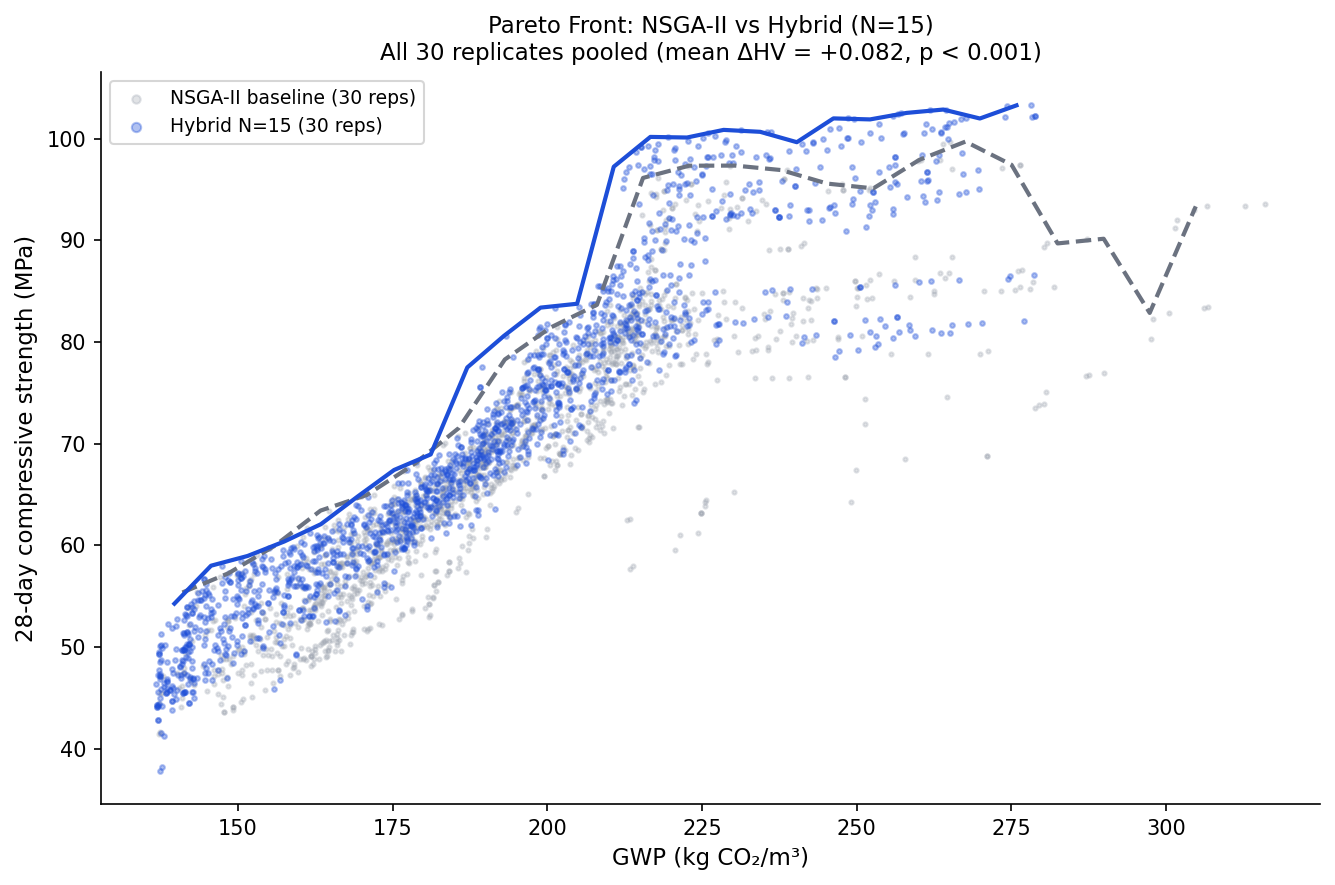
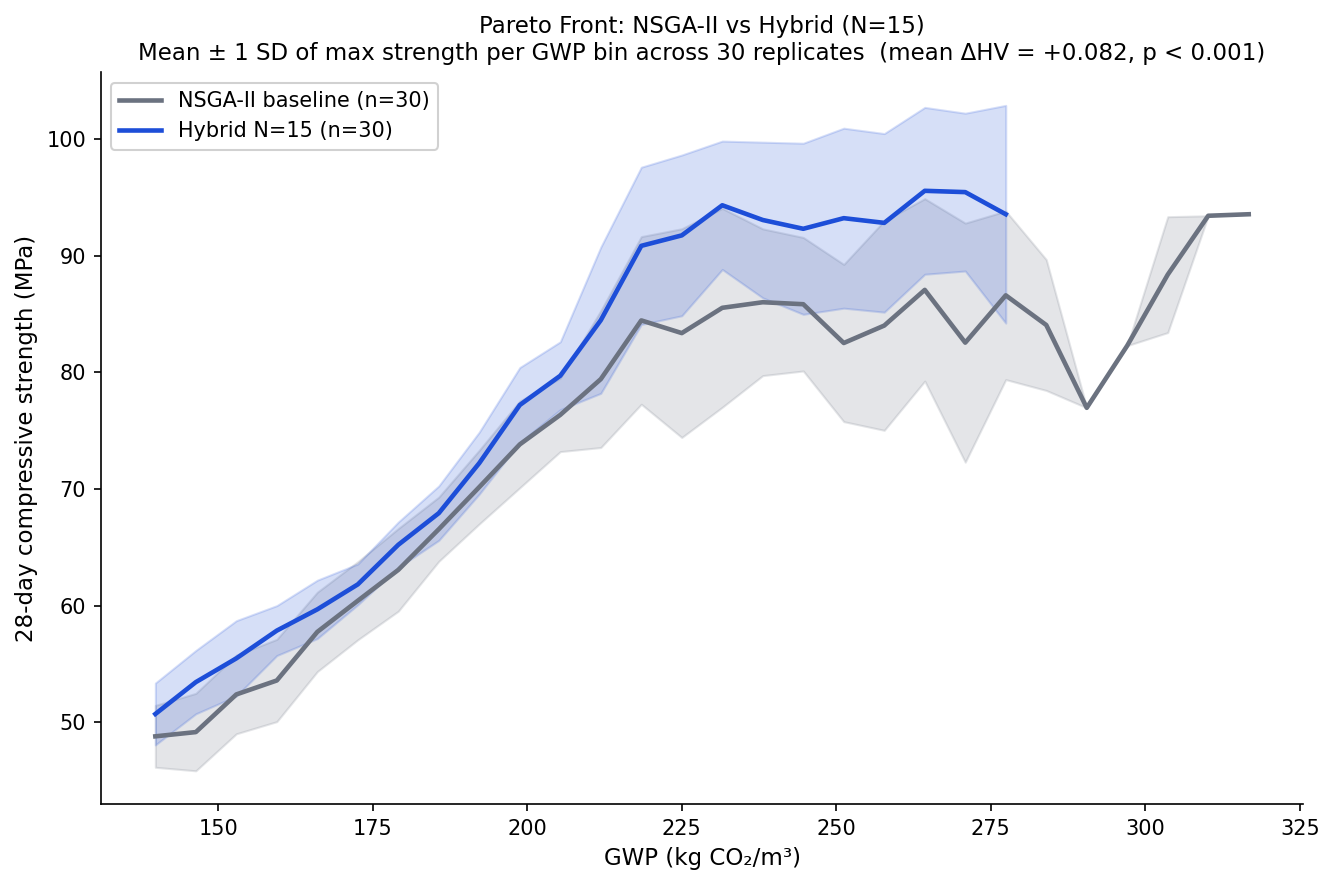
Update pareto front figure: shaded std band, no scatter dots
Replace scatter plot with mean +/- 1 SD band per GWP bin,
consistent with convergence figure style.

diff --git a/regen_figures_n15.py b/regen_figures_n15.py
@@ -62,36 +62,49 @@ div_hyb_arr = np.array([r["div_hyb"]  for r in reps_data])
 div_base_arr= np.array([r["div_base"] for r in reps_data])
 
 # ══════════════════════════════════════════════════════════════
-# Fig 1: Pareto front scatter (all reps pooled)
+# Fig 1: Pareto front — binned mean ± 1 SD (no scatter dots)
 # ══════════════════════════════════════════════════════════════
 fig, ax = plt.subplots(figsize=(9, 6))
 
-all_base = pd.concat([r["bpf"] for r in reps_data])
-all_hyb  = pd.concat([r["hpf"] for r in reps_data])
+# Bin GWP axis; for each bin take per-rep max strength, then average across reps
+GWP_BINS = np.linspace(130, 320, 30)
 
-ax.scatter(all_base["GWP"], all_base["28day"], s=4, color="#9CA3AF", alpha=0.3,
-           label=f"NSGA-II baseline ({REPS} reps)", zorder=1)
-ax.scatter(all_hyb["GWP"],  all_hyb["28day"],  s=5, color="#1D4ED8", alpha=0.35,
-           label=f"Hybrid N=15 ({REPS} reps)", zorder=2)
+def rep_binned(pf_list, bins):
+    """For each rep's Pareto front, compute max strength per GWP bin."""
+    n_bins = len(bins) - 1
+    mat = np.full((len(pf_list), n_bins), np.nan)
+    for ri, pf in enumerate(pf_list):
+        for bi in range(n_bins):
+            sub = pf[(pf["GWP"] >= bins[bi]) & (pf["GWP"] < bins[bi+1])]
+            if len(sub):
+                mat[ri, bi] = sub["28day"].max()
+    return mat
 
-# binned upper envelope
-for df, color, ls in [(all_base,"#6B7280","--"), (all_hyb,"#1D4ED8","-")]:
-    bins = np.linspace(df["GWP"].min(), df["GWP"].max(), 25)
-    bgwp, bstr, bsd = [], [], []
-    for i in range(len(bins)-1):
-        sub = df[(df["GWP"]>=bins[i])&(df["GWP"]<bins[i+1])]
-        if len(sub)>=3:
-            bgwp.append(bins[i:i+2].mean())
-            bstr.append(sub["28day"].max())
-            bsd.append(sub["28day"].std())
-    if bgwp:
-        ax.plot(bgwp, bstr, color=color, lw=2, ls=ls, zorder=3)
+bin_centers = (GWP_BINS[:-1] + GWP_BINS[1:]) / 2
+
+base_pfs = [r["bpf"] for r in reps_data]
+hyb_pfs  = [r["hpf"] for r in reps_data]
+
+for pf_list, color, label in [
+    (base_pfs, "#6B7280", f"NSGA-II baseline (n={REPS})"),
+    (hyb_pfs,  "#1D4ED8", f"Hybrid N=15 (n={REPS})"),
+]:
+    mat  = rep_binned(pf_list, GWP_BINS)
+    mean = np.nanmean(mat, axis=0)
+    sd   = np.nanstd(mat,  axis=0)
+    mask = ~np.isnan(mean)
+    ax.plot(bin_centers[mask], mean[mask], color=color, lw=2.2, label=label, zorder=3)
+    ax.fill_between(bin_centers[mask],
+                    mean[mask] - sd[mask],
+                    mean[mask] + sd[mask],
+                    color=color, alpha=0.18, zorder=2)
 
 ax.set_xlabel("GWP (kg CO₂/m³)", fontsize=11)
 ax.set_ylabel("28-day compressive strength (MPa)", fontsize=11)
 ax.set_title(f"Pareto Front: NSGA-II vs Hybrid (N=15)\n"
-             f"All {REPS} replicates pooled (mean ΔHV = +0.082, p < 0.001)", fontsize=11)
-ax.legend(fontsize=9, markerscale=2)
+             f"Mean ± 1 SD of max strength per GWP bin across {REPS} replicates  "
+             f"(mean ΔHV = +0.082, p < 0.001)", fontsize=11)
+ax.legend(fontsize=10, framealpha=0.9)
 ax.spines["top"].set_visible(False); ax.spines["right"].set_visible(False)
 plt.tight_layout()
 plt.savefig(OUTDIR/"pareto_front_everyg.png", dpi=150, bbox_inches="tight")
